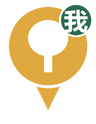
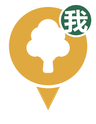
feat(ui): 树种插画换彩色版 + 地图大头针树形更新
- 树种插画（树木名片/林地页/荣誉榜）由线稿换成彩色扁平插画，透明底
- 新增凤凰木专属插画 flame-tree，不再兜底归到木棉
- 地图 marker 内树形由「圆冠+矩形」替换为圆冠阔叶树剪影

Changed region(s): [[0.25, 0.1694, 0.75, 0.6048], [0.5625, 0.1694, 0.6562, 0.2419], [0.4375, 0.1452, 0.5625, 0.1694]]

diff --git a/common/speciesArt.js b/common/speciesArt.js
@@ -47,6 +47,7 @@ const ALIAS = {
   '木棉': 'kapok',
   '英雄树': 'kapok',
   '美丽异木棉': 'kapok',
+  '凤凰木': 'flame-tree',
   // 针叶
   '水杉': 'dawn-redwood',
   '落羽杉': 'dawn-redwood',
@@ -69,7 +70,7 @@ const ALIAS = {
 const FORMS = [
   { re: /椰|棕|榈|葵|槟榔|苏铁|蒲/, slug: 'coconut-palm' },
   { re: /杉|松|柏|桧|针叶/, slug: 'dawn-redwood' },
-  { re: /棉|凤凰木|蓝花楹|紫荆|樱|桃|梅|紫薇|鸡蛋花|刺桐|黄槐|决明|木荷|羊蹄甲/, slug: 'kapok' },
+  { re: /棉|蓝花楹|紫荆|樱|桃|梅|紫薇|鸡蛋花|刺桐|黄槐|决明|木荷|羊蹄甲/, slug: 'kapok' },
   { re: /榕|樟|桂|楠|杜英|冬青|芒果|荔枝|龙眼|橄榄|女贞|石栗|重阳木|枇杷|杨梅|白兰/, slug: 'camphor' },
   { re: /银杏|枫|梧桐|白蜡|朴|合欢|柳|榆|榉|槐|紫叶李|栾/, slug: 'magnolia' }
 ]
